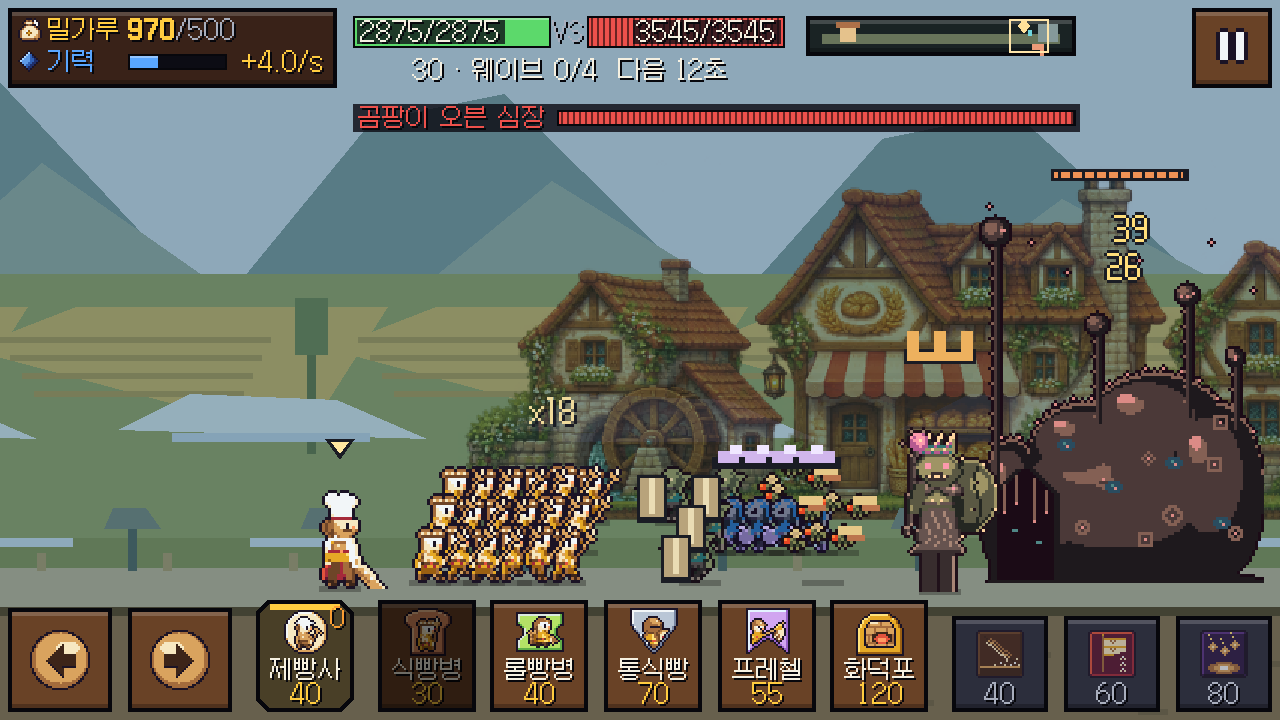
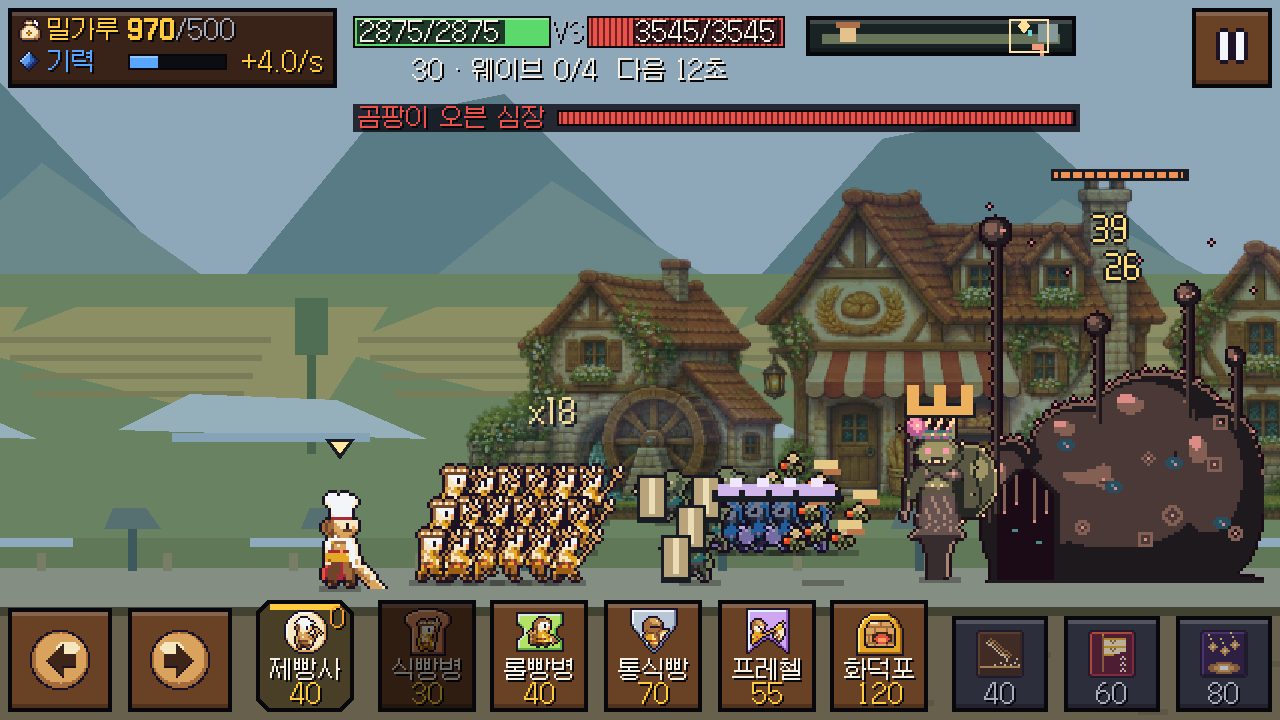
[Fix] 몬스터 장식 기준과 최종 EXE 입력 검증 화면 갱신

Changed region(s): [[0.3125, 0.4583, 0.7812, 0.825], [0.8438, 0.275, 0.9062, 0.3972], [0.5312, 0.7944, 0.5625, 0.825]]

diff --git a/tools/build/generate_campaign30.py b/tools/build/generate_campaign30.py
@@ -36,6 +36,9 @@ def generate():
     for ident, parent, ko, en, changes in specs:
         u = copy.deepcopy(original[parent])
         u.update(changes)
+        # Opaque head height from the existing atlas walk frames, relative to the
+        # foot pivot. Do not anchor hats to the transparent 32/64/80 px cell tops.
+        u['visual_mark_height'] = {'e_grunt':18,'e_swarm':23,'e_spitter':18,'boss_warlord':44,'boss_overlord':55}[parent]
         u.update(id=ident, name=ko, name_key=f"unit.{ident}.name", desc_key=f"unit.{ident}.desc")
         units["units"].append(u)
         extra_text["ko"][u["name_key"]] = ko
